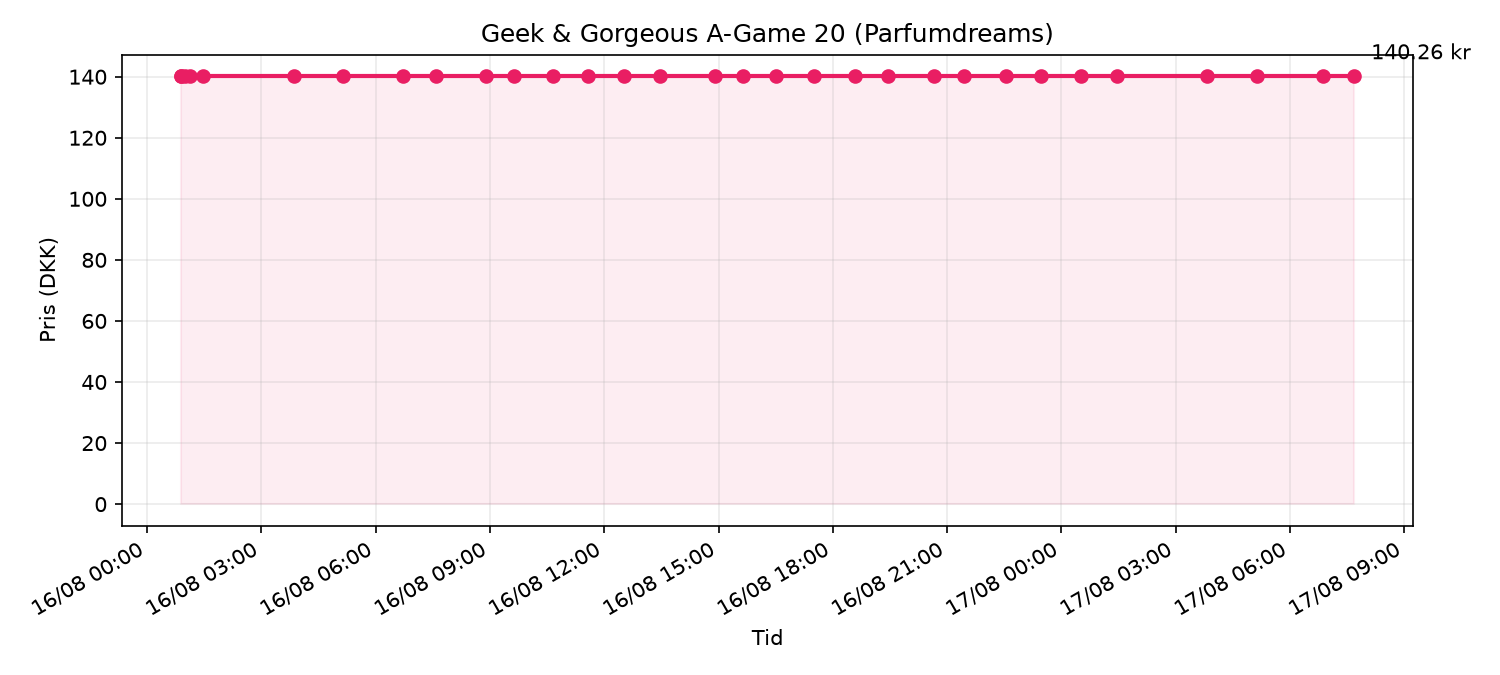
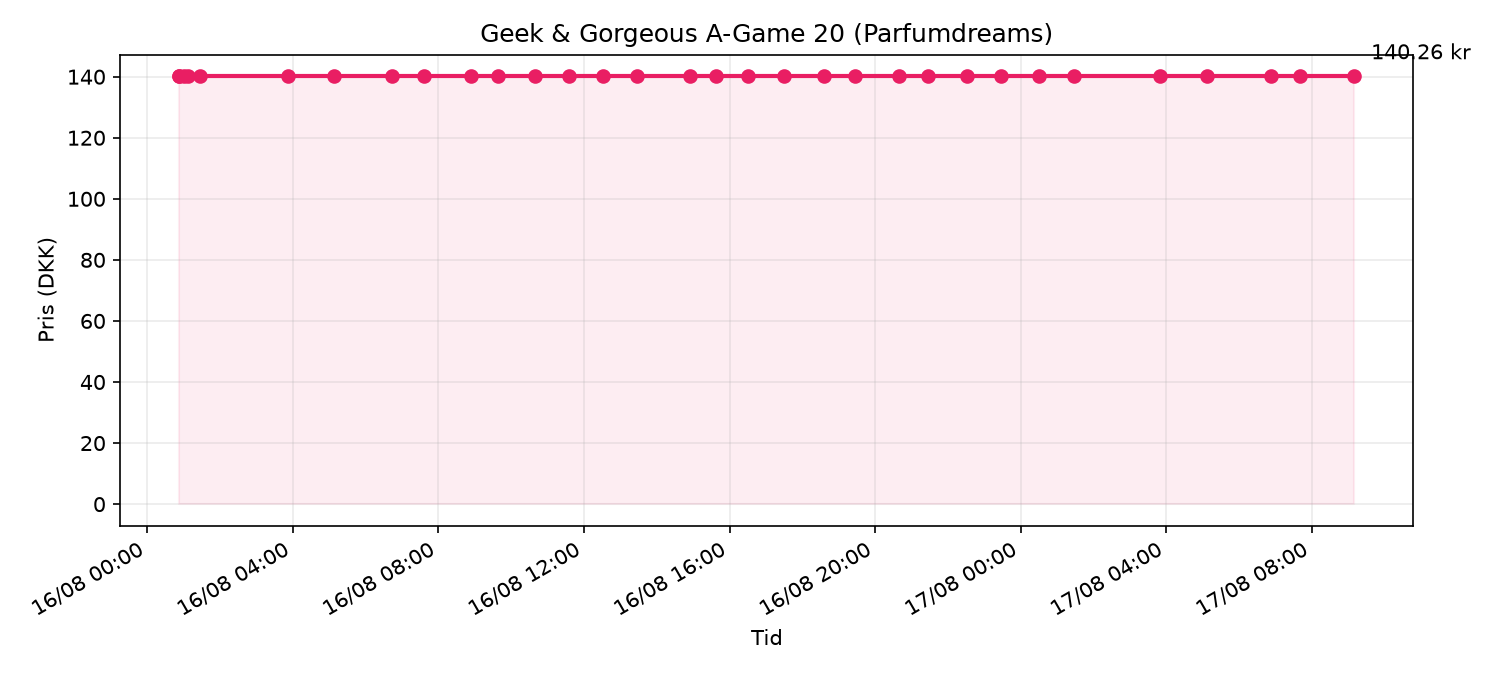
deploy: 8a626493150bc4009567aa0eb56bbedd5d9839f8

diff --git a/price_chart.html b/price_chart.html
@@ -13,7 +13,7 @@
 </head>
 <body>
   <h1>Geek & Gorgeous A-Game 20 (Parfumdreams)</h1>
-  <p class="meta">Senest tjekket: 17/08/2026 07:41 · Pris: <strong>140.26 kr</strong> · på lager</p>
+  <p class="meta">Senest tjekket: 17/08/2026 09:10 · Pris: <strong>140.26 kr</strong> · på lager</p>
   
   <p><a href="https://www.parfumdreams.dk/Geek-Gorgeous/Samlinger/101-aktive-stoffer/A-Game-20-Serum/index_137083.aspx?variation=221879">Åbn produkt på Parfumdreams</a></p>
   <img src="price_chart.png" alt="Prisgraf">
